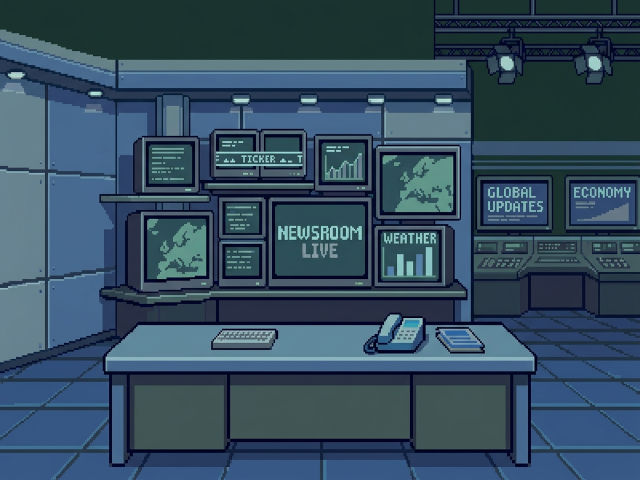
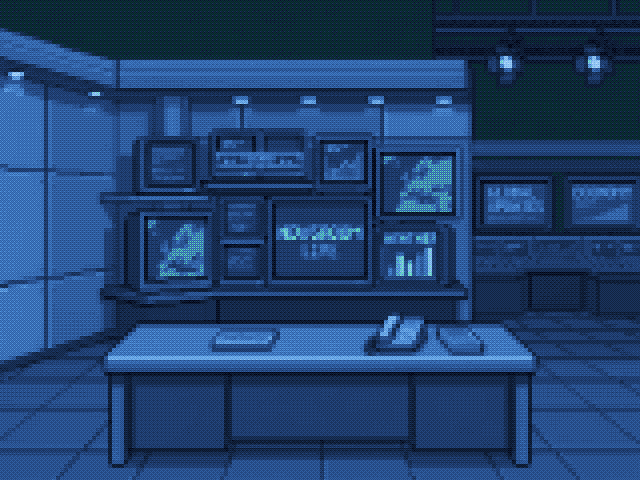
Unify the artwork and UI on a single 1990s VGA-era palette
The assets were never palettised: background.png held 45,246 distinct colours
and the two sprites 2,603 and 3,454, because the art had been smoothly scaled
rather than drawn on a colour-limited grid. The UI added its own separate bright
blues on top. Everything now shares one 27-colour palette.

Two different treatments were needed, and measuring decided which:

- background.png was smooth-scaled art, so it is additionally snapped to a 4x
  grid (160x120 logical pixels) before palette mapping. That grid is what
  produces the pixel-art look; palette reduction alone left it soft, which I
  verified by testing a palette-only version.
- The sprites are already native 128x128 (0% of 2x2 blocks are non-uniform), so
  they are palette-mapped only, with no grid change. Snapping them would have
  reduced the faces to 32x32 mush.

Both get ordered Bayer dithering, which supplies the period texture.

Side effect worth having: the art shrank by an order of magnitude.
  background.png  312574 -> 32903 bytes
  anchor1.png      16445 ->  4106 bytes
  anchor2.png      18052 ->  4625 bytes

Every UI colour was mapped to a value in the same palette. Contrast improved
slightly on the way: all text pairs now pass WCAG AA, where the previous story
link colour sat at 3.91 (below AA) and now measures 5.64.

Verified at eight viewports from 375x667 to 1280x800: no overflow, no controls
or footer below the fold, sprites 66-86% visible, and the dialogue still renders
[…]

diff --git a/index.html b/index.html
@@ -12,8 +12,8 @@
 
     body {
       font-family: 'Press Start 2P', monospace;
-      background: #0a0f1e;
-      color: #e2e8f0;
+      background: #0a1428;
+      color: #e8f4ff;
       min-height: 100vh;
       /* dvh keeps the layout correct under mobile browser chrome. The vh
          line above is the fallback for browsers without dvh support. */
@@ -39,8 +39,8 @@
       /* Capped so the stage, speech panel, controls and footer all fit. */
       max-height: 52vh;
       max-height: 52dvh;
-      background: #1e293b url('/assets/background.png') center/cover no-repeat;
-      border: 4px solid #334155;
+      background: #122440 url('/assets/background.png') center/cover no-repeat;
+      border: 4px solid #244882;
       border-radius: 8px;
       overflow: hidden;
       image-rendering: pixelated;
@@ -81,8 +81,8 @@
       left: 0;
       right: 0;
       height: 19%;
-      background: linear-gradient(180deg, #1e293b 0%, #0f172a 100%);
-      border-top: 4px solid #334155;
+      background: linear-gradient(180deg, #1a3460 0%, #0a1428 100%);
+      border-top: 4px solid #244882;
       z-index: 3;
     }
 
@@ -90,12 +90,12 @@
       position: absolute;
       top: 1rem;
       left: 1rem;
-      background: #dc2626;
+      background: #a00028;
       color: #fff;
       padding: 0.4rem 0.8rem;
       font-size: 0.65rem;
       letter-spacing: 1px;
-      border: 2px solid #7f1d1d;
+      border: 2px solid #600018;
       z-index: 5;
       display: none;
     }
@@ -129,10 +129,10 @@
 
     .speech-bubble {
       position: relative;
-      background: #f8fafc;
-      color: #0f172a;
+      background: #e8f4ff;
+      color: #0a1428;
       padding: 0.9rem 1rem;
-      border: 4px solid #0f172a;
+      border: 4px solid #0a1428;
       border-radius: 10px;
       /* Readable at this size; the overlay layout could only afford 0.4rem. */
       font-size: 0.8rem;
@@ -154,7 +154,7 @@
       height: 0;
       border-left: 13px solid transparent;
       border-right: 13px solid transparent;
-      border-bottom: 19px solid #0f172a;
+      border-bottom: 19px solid #0a1428;
       transition: left 0.4s ease;
     }
     .speech-bubble::before {
@@ -167,7 +167,7 @@
       height: 0;
       border-left: 10px solid transparent;
       border-right: 10px solid transparent;
-      border-bottom: 14px solid #f8fafc;
+      border-bottom: 14px solid #e8f4ff;
       z-index: 1;
       transition: left 0.4s ease;
     }
@@ -198,16 +198,16 @@
       gap: 1rem;
       margin-top: 0.75rem;
       padding-top: 0.5rem;
-      border-top: 1px solid #cbd5e1;
+      border-top: 1px solid #3f7ac4;
     }
 
     .source-line {
       font-size: 0.65rem;
-      color: #64748b;
+      color: #244882;
     }
 
 .more-link {
-  color: #0284c7;
+  color: #3060a4;
   text-decoration: none;
   font-size: 0.65rem;
   white-space: nowrap;
@@ -222,7 +222,7 @@
 }
 
 .more-link:hover {
-  border-bottom-color: #0284c7;
+  border-bottom-color: #3060a4;
 }
 
     .controls {
@@ -236,20 +236,20 @@
       font-family: 'Press Start 2P', monospace;
       font-size: 0.55rem;
       padding: 0.6rem 1rem;
-      background: #38bdf8;
-      color: #0f172a;
-      border: 3px solid #0284c7;
+      background: #5596dc;
+      color: #0a1428;
+      border: 3px solid #3f7ac4;
       border-radius: 4px;
       cursor: pointer;
       box-shadow: 3px 3px 0 rgba(0, 0, 0, 0.4);
     }
 
-    .controls button:hover { background: #7dd3fc; }
+    .controls button:hover { background: #74b0ea; }
     .controls button:active { transform: translate(2px, 2px); box-shadow: 1px 1px 0 rgba(0, 0, 0, 0.4); }
 
     footer {
       margin-top: 1.5rem;
-      color: #475569;
+      color: #3060a4;
       font-size: 0.5rem;
       text-align: center;
     }
@@ -302,7 +302,7 @@
         top: -14px;
         border-left-width: 10px;
         border-right-width: 10px;
-        border-bottom: 14px solid #0f172a;
+        border-bottom: 14px solid #0a1428;
       }
       .speech-bubble::before {
         top: -9px;
